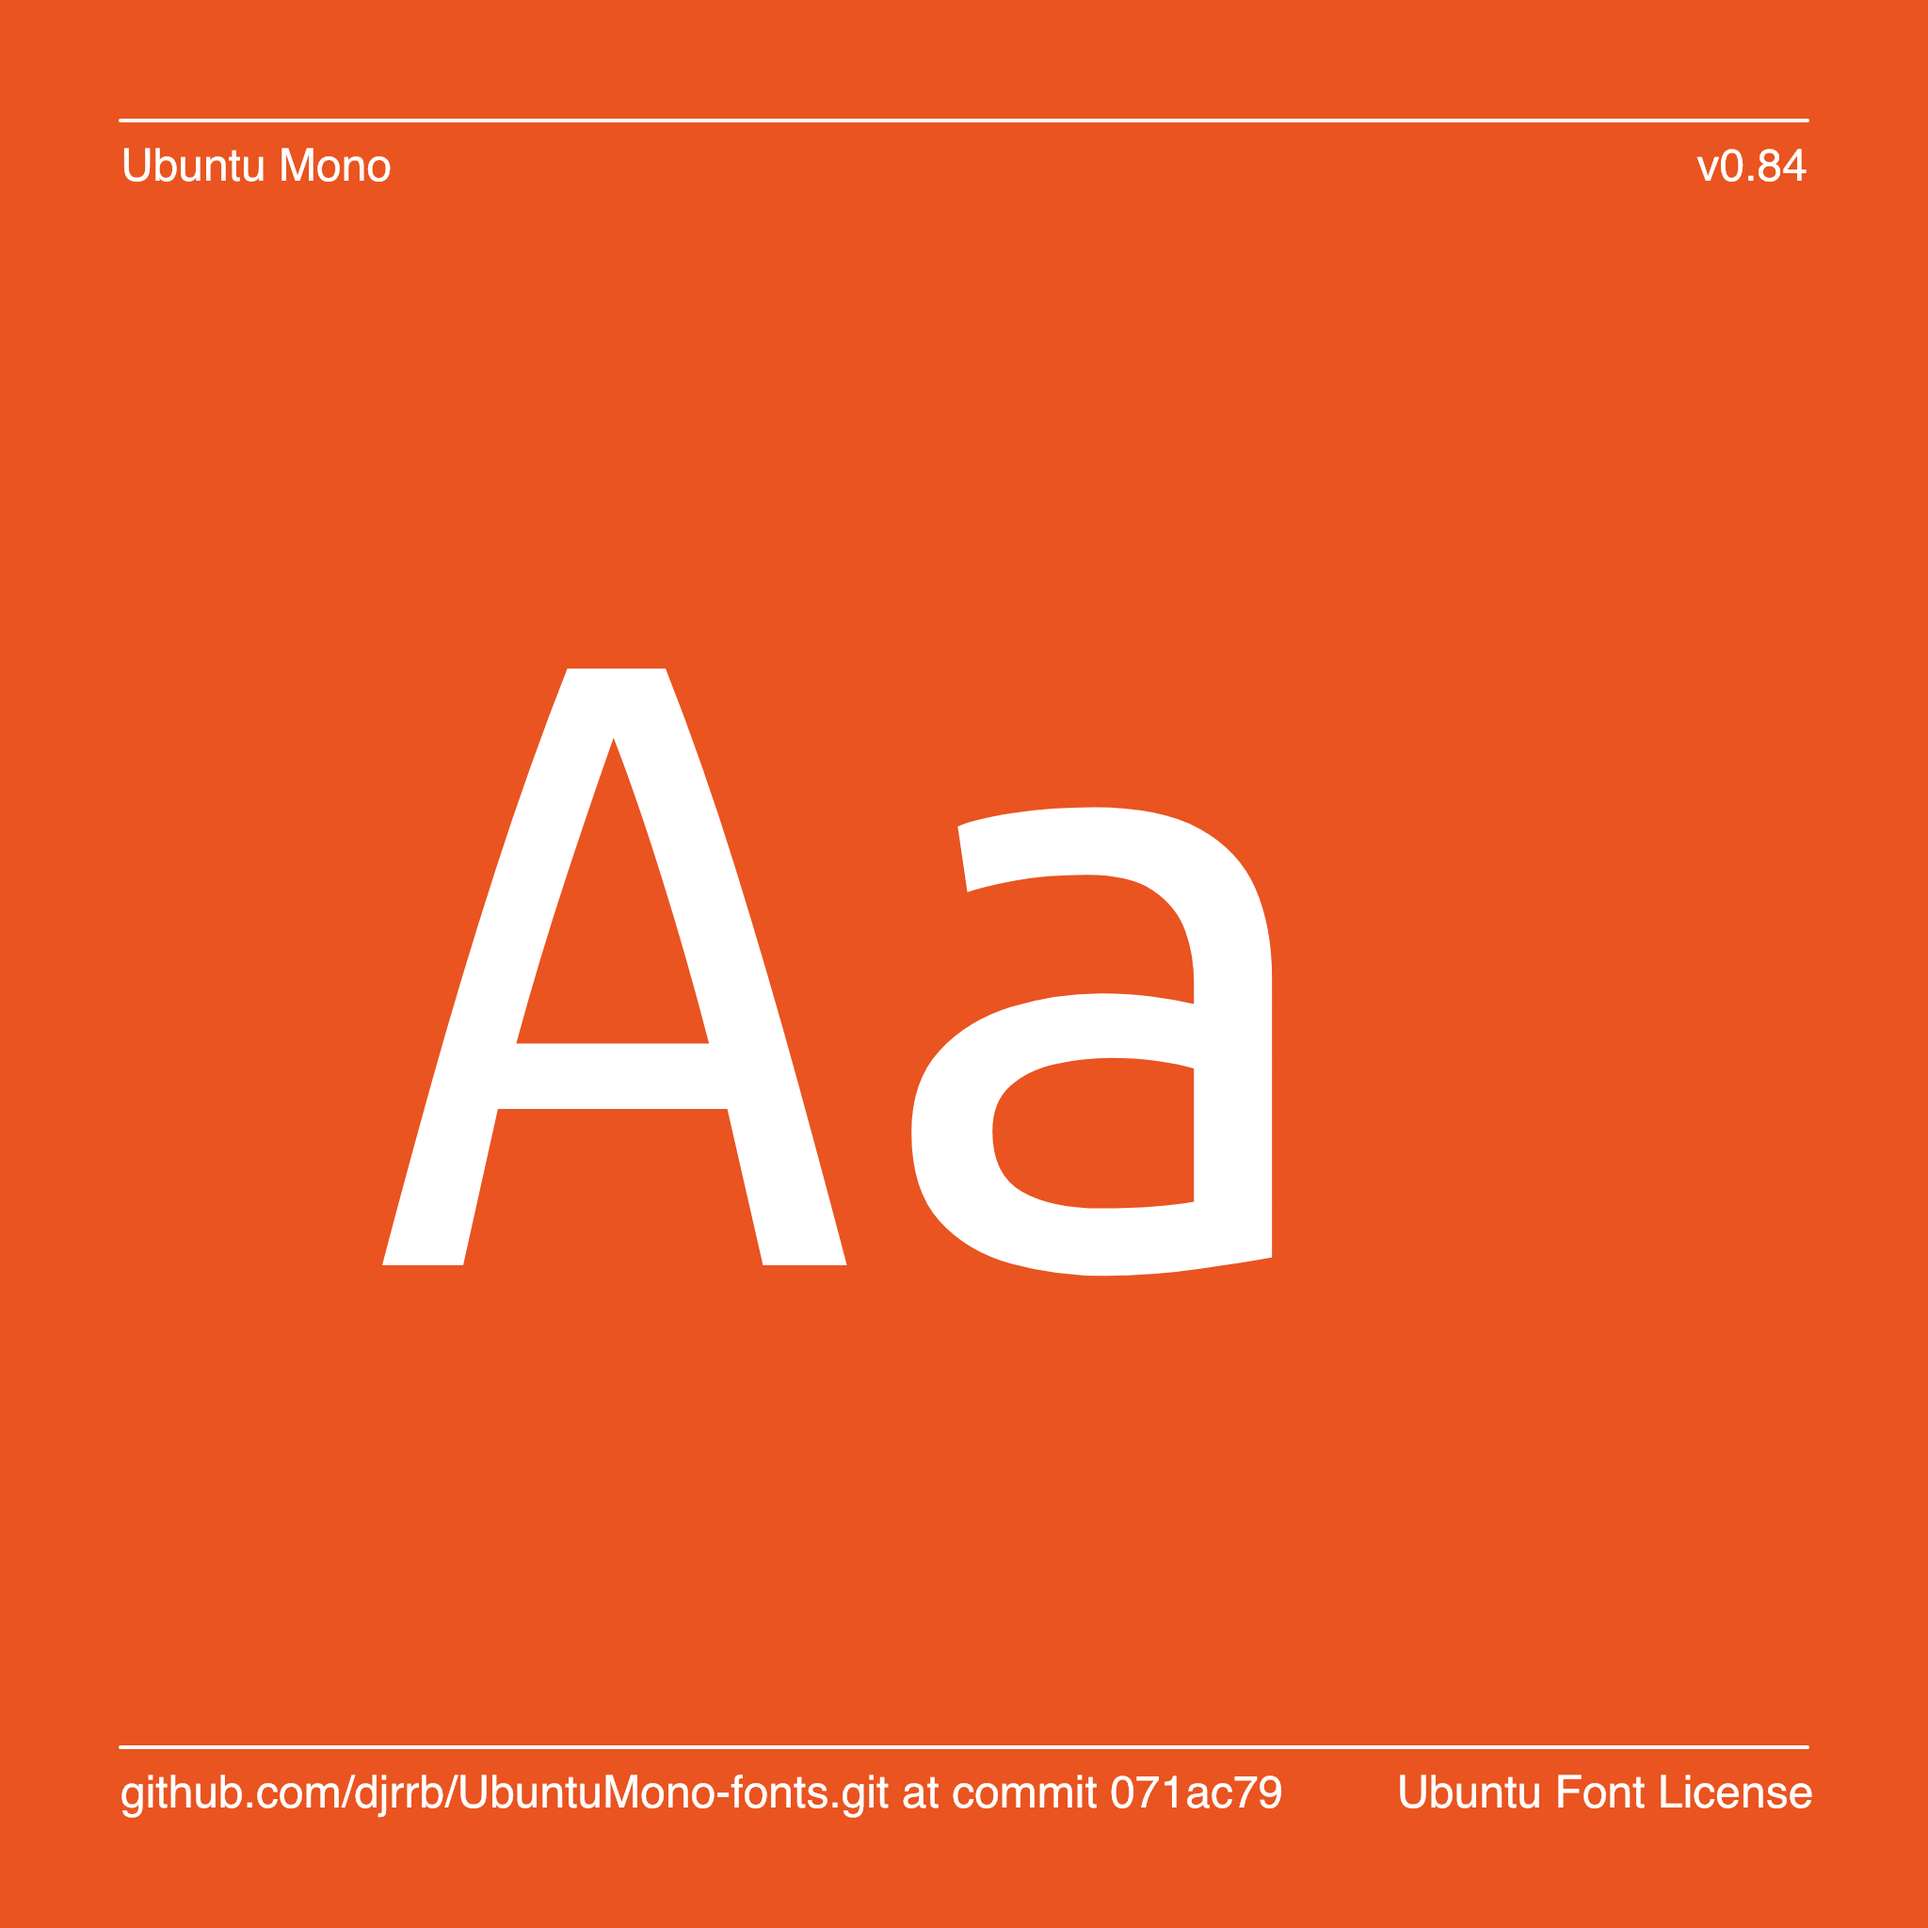
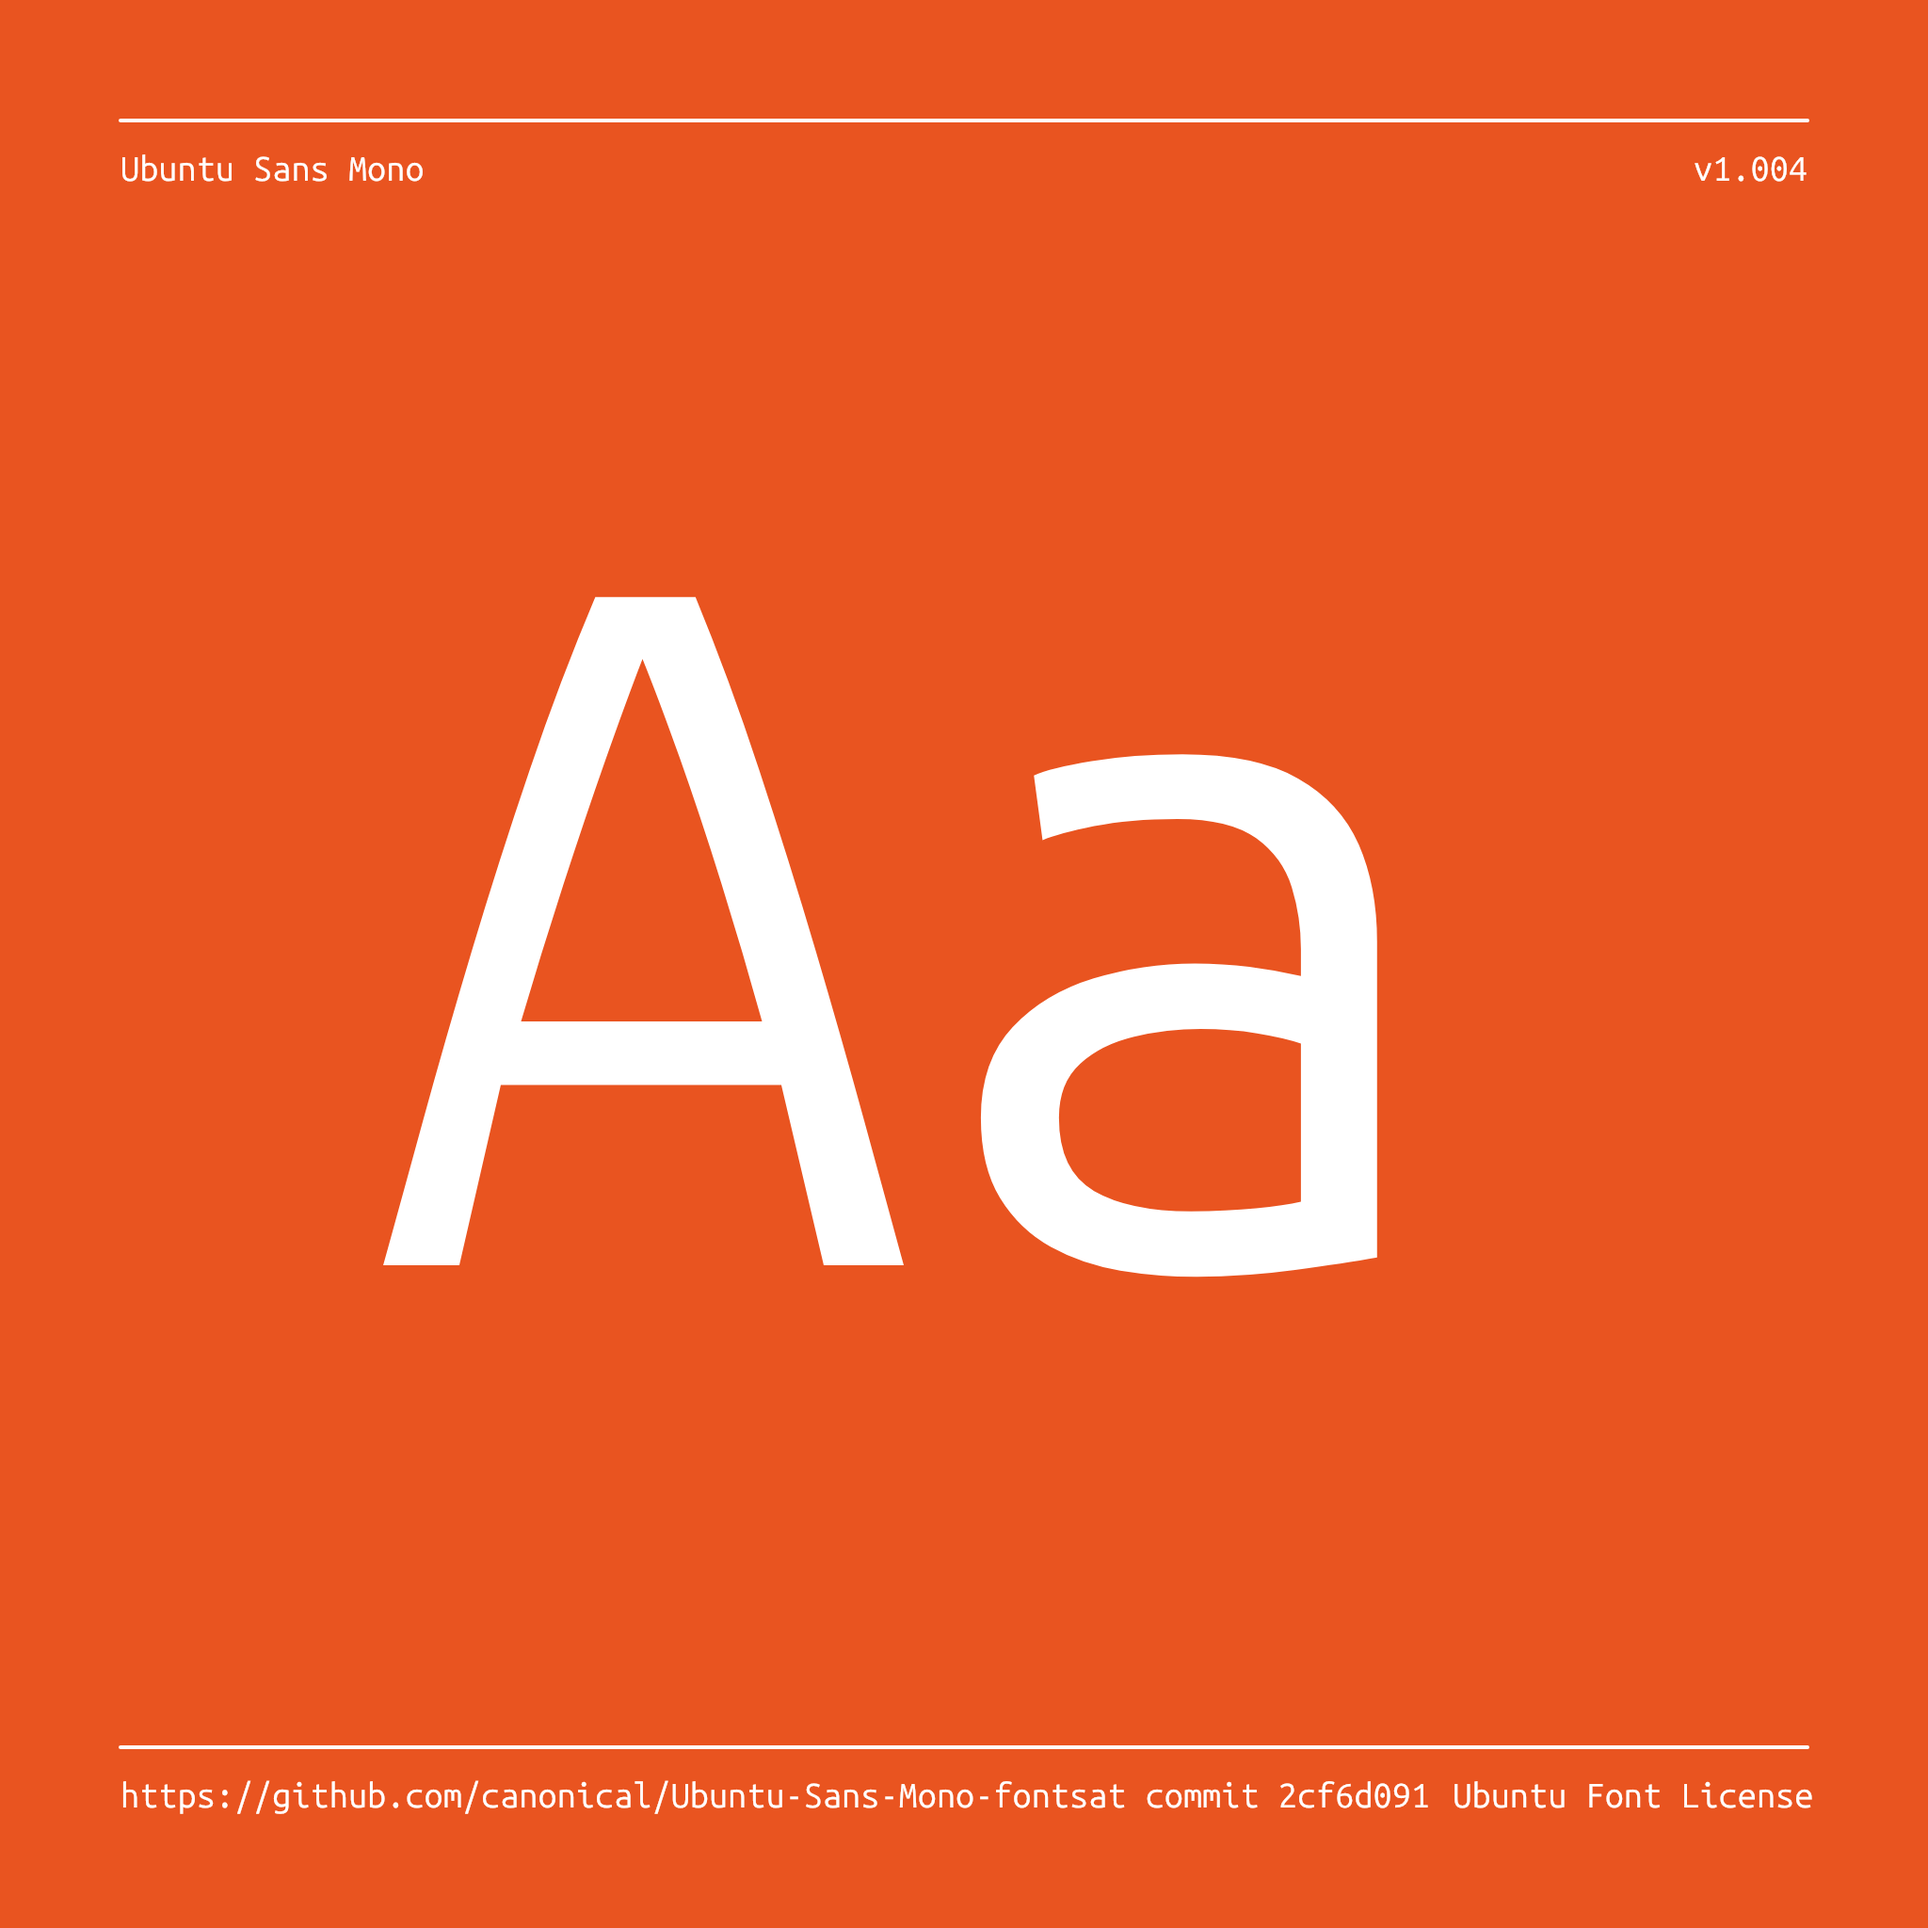
update readme etc with new name

diff --git a/documentation/image1.py b/documentation/image1.py
@@ -16,10 +16,10 @@ import argparse
 
 # Constants, these are the main "settings" for the image
 WIDTH, HEIGHT, MARGIN, FRAMES = 2048, 2048, 128, 1
-FONT_PATH = "fonts/variable/UbuntuMono[wght].ttf"
+FONT_PATH = "fonts/variable/UbuntuSansMono[wght].ttf"
 FONT_LICENSE = "Ubuntu Font License"
-AUXILIARY_FONT = "Helvetica"
-AUXILIARY_FONT_SIZE = 48
+AUXILIARY_FONT = "fonts/variable/UbuntuSansMono[wght].ttf"
+AUXILIARY_FONT_SIZE = 36
 BIG_TEXT = "Aa"
 BIG_TEXT_FONT_SIZE = 1024
 BIG_TEXT_SIDE_MARGIN = MARGIN * 3.1

diff --git a/README.md b/README.md
@@ -1,16 +1,16 @@
-# Ubuntu Mono
+# Ubuntu Sans Mono
 
-[![][Fontbakery]](https://canonical.github.io/UbuntuMono-fonts/fontbakery/fontbakery-report.html)
-[![][Universal]](https://canonical.github.io/UbuntuMono-fonts/fontbakery/fontbakery-report.html)
-[![][GF Profile]](https://canonical.github.io/UbuntuMono-fonts/fontbakery/fontbakery-report.html)
-[![][Outline Correctness]](https://canonical.github.io/UbuntuMono-fonts/fontbakery/fontbakery-report.html)
-[![][Shaping]](https://canonical.github.io/UbuntuMono-fonts/fontbakery/fontbakery-report.html)
+[![][Fontbakery]](https://canonical.github.io/Ubuntu-Sans-Mono-fonts/fontbakery/fontbakery-report.html)
+[![][Universal]](https://canonical.github.io/Ubuntu-Sans-Mono-fonts/fontbakery/fontbakery-report.html)
+[![][GF Profile]](https://canonical.github.io/Ubuntu-Sans-Mono-fonts/fontbakery/fontbakery-report.html)
+[![][Outline Correctness]](https://canonical.github.io/Ubuntu-Sans-Mono-fonts/fontbakery/fontbakery-report.html)
+[![][Shaping]](https://canonical.github.io/Ubuntu-Sans-Mono-fonts/fontbakery/fontbakery-report.html)
 
-[Fontbakery]: https://img.shields.io/endpoint?url=https%3A%2F%2Fraw.githubusercontent.com%2Fcanonical%2FUbuntuMono-fonts%2Fgh-pages%2Fbadges%2Foverall.json
-[GF Profile]: https://img.shields.io/endpoint?url=https%3A%2F%2Fraw.githubusercontent.com%2Fcanonical%2FUbuntuMono-fonts%2Fgh-pages%2Fbadges%2FGoogleFonts.json
-[Outline Correctness]: https://img.shields.io/endpoint?url=https%3A%2F%2Fraw.githubusercontent.com%2Fcanonical%2FUbuntuMono-fonts%2Fgh-pages%2Fbadges%2FOutlineCorrectnessChecks.json
-[Shaping]: https://img.shields.io/endpoint?url=https%3A%2F%2Fraw.githubusercontent.com%2Fcanonical%2FUbuntuMono-fonts%2Fgh-pages%2Fbadges%2FShapingChecks.json
-[Universal]: https://img.shields.io/endpoint?url=https%3A%2F%2Fraw.githubusercontent.com%2Fcanonical%2FUbuntuMono-fonts%2Fgh-pages%2Fbadges%2FUniversal.json
+[Fontbakery]: https://img.shields.io/endpoint?url=https%3A%2F%2Fraw.githubusercontent.com%2Fcanonical%2FUbuntu-Sans-Mono-fonts%2Fgh-pages%2Fbadges%2Foverall.json
+[GF Profile]: https://img.shields.io/endpoint?url=https%3A%2F%2Fraw.githubusercontent.com%2Fcanonical%2FUbuntu-Sans-Mono-fonts%2Fgh-pages%2Fbadges%2FGoogleFonts.json
+[Outline Correctness]: https://img.shields.io/endpoint?url=https%3A%2F%2Fraw.githubusercontent.com%2Fcanonical%2FUbuntu-Sans-Mono-fonts%2Fgh-pages%2Fbadges%2FOutlineCorrectnessChecks.json
+[Shaping]: https://img.shields.io/endpoint?url=https%3A%2F%2Fraw.githubusercontent.com%2Fcanonical%2FUbuntu-Sans-Mono-fonts%2Fgh-pages%2Fbadges%2FShapingChecks.json
+[Universal]: https://img.shields.io/endpoint?url=https%3A%2F%2Fraw.githubusercontent.com%2Fcanonical%2FUbuntu-Sans-Mono-fonts%2Fgh-pages%2Fbadges%2FUniversal.json
 
 The **Ubuntu Font Family** are a set of matching libre/open fonts. The fonts were originally developed in 2010–2011, further expanded and improved in 2015, and expanded again in 2022–2023 when variable fonts were added. 
 
@@ -22,15 +22,15 @@ Both the final font TrueType/OpenType files and the design files used to produce
 
 ![Sample Image](documentation/image1.png)
 
-A proportional-width variant, **Ubuntu**, is available in a separate repository: [https://github.com/canonical/ubuntu-fonts](https://github.com/canonical/ubuntu-fonts)
+A proportional-width variant, **Ubuntu Sans**, is available in a separate repository: [https://github.com/canonical/ubuntu-sans-fonts](https://github.com/canonical/ubuntu-sans-fonts)
 
 ## Releases
 
-You can find recent releases and release candidates in the ["Releases" tab](https://github.com/canonical/UbuntuMono-fonts/releases).
+You can find recent releases and release candidates in the ["Releases" tab](https://github.com/canonical/Ubuntu-Sans-Mono-fonts/releases).
 
 ## Building
 
-Fonts are built automatically by GitHub Actions - take a look in the ["Actions" tab](https://github.com/canonical/UbuntuMono-fonts/actions) for the latest build.
+Fonts are built automatically by GitHub Actions - take a look in the ["Actions" tab](https://github.com/canonical/Ubuntu-Sans-Mono-fonts/actions) for the latest build.
 
 If you want to build fonts manually on your own computer:
 
@@ -39,11 +39,11 @@ If you want to build fonts manually on your own computer:
 * `make test` will run [FontBakery](https://github.com/googlefonts/fontbakery)'s quality assurance tests.
 * `make proof` will generate HTML proof files.
 
-The proof files and QA tests are also available automatically via GitHub Actions - look at https://canonical.github.io/UbuntuMono-fonts.
+The proof files and QA tests are also available automatically via GitHub Actions - look at https://canonical.github.io/Ubuntu-Sans-Mono-fonts.
 
 It is possible to generate custom styles directly from the variable fonts using [fontTools instancer.](https://fonttools.readthedocs.io/en/latest/varLib/instancer.html). For example, the following generates a custom style that is a close match to Ubuntu Mono’s original weight:
 
-```fonttools varLib.instancer UbuntuMono[wght].ttf wght=473```
+```fonttools varLib.instancer UbuntuSansMono[wght].ttf wght=473```
 
 
 ## Changelog
